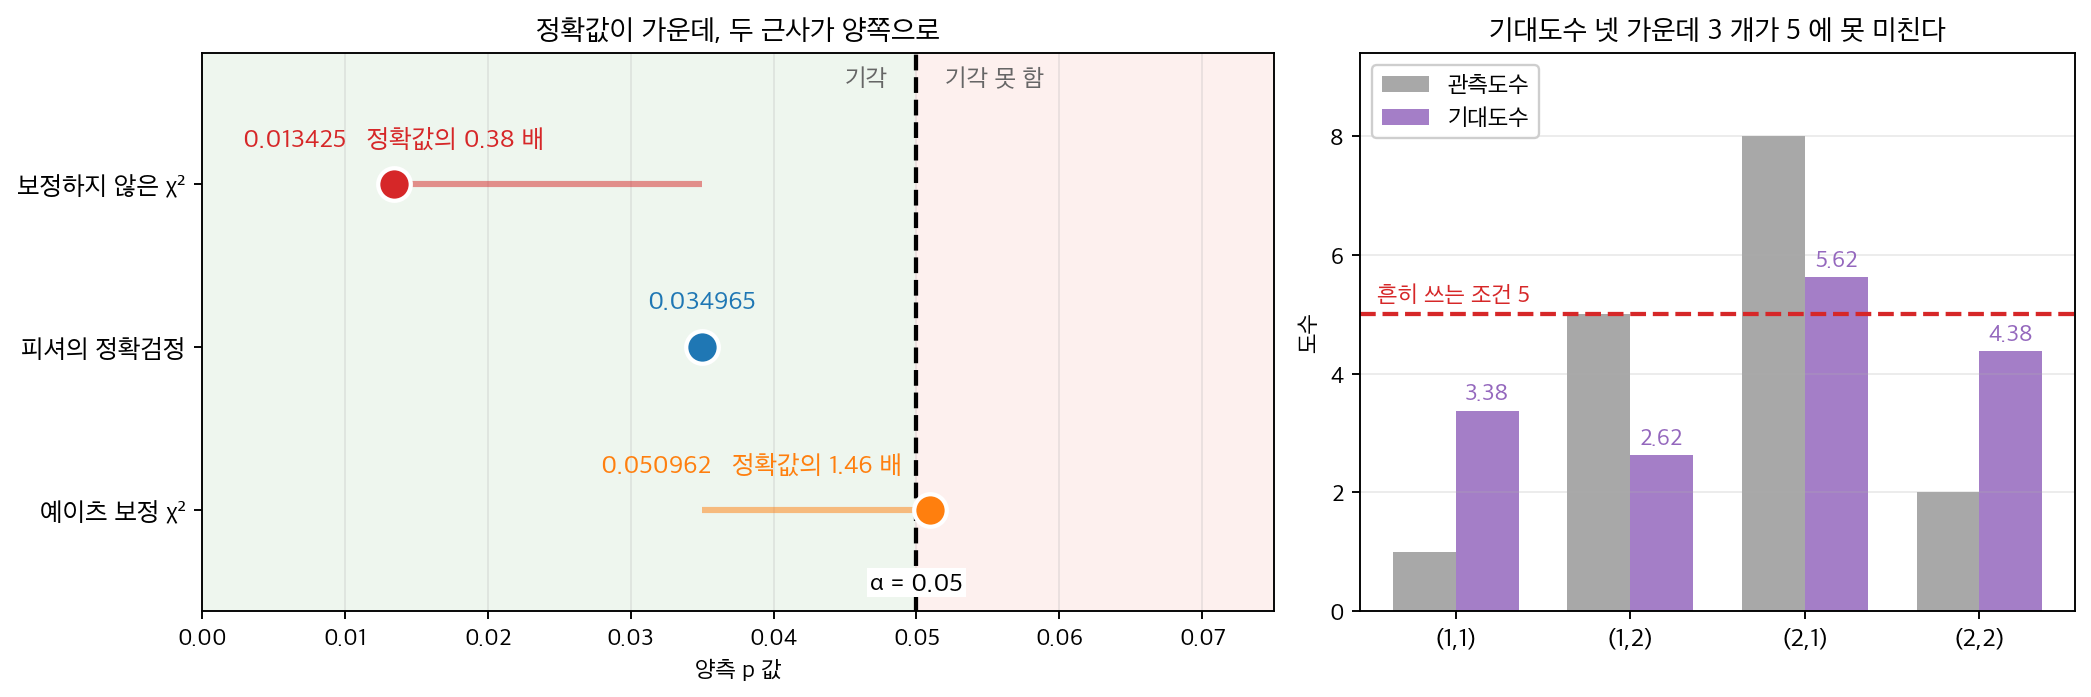
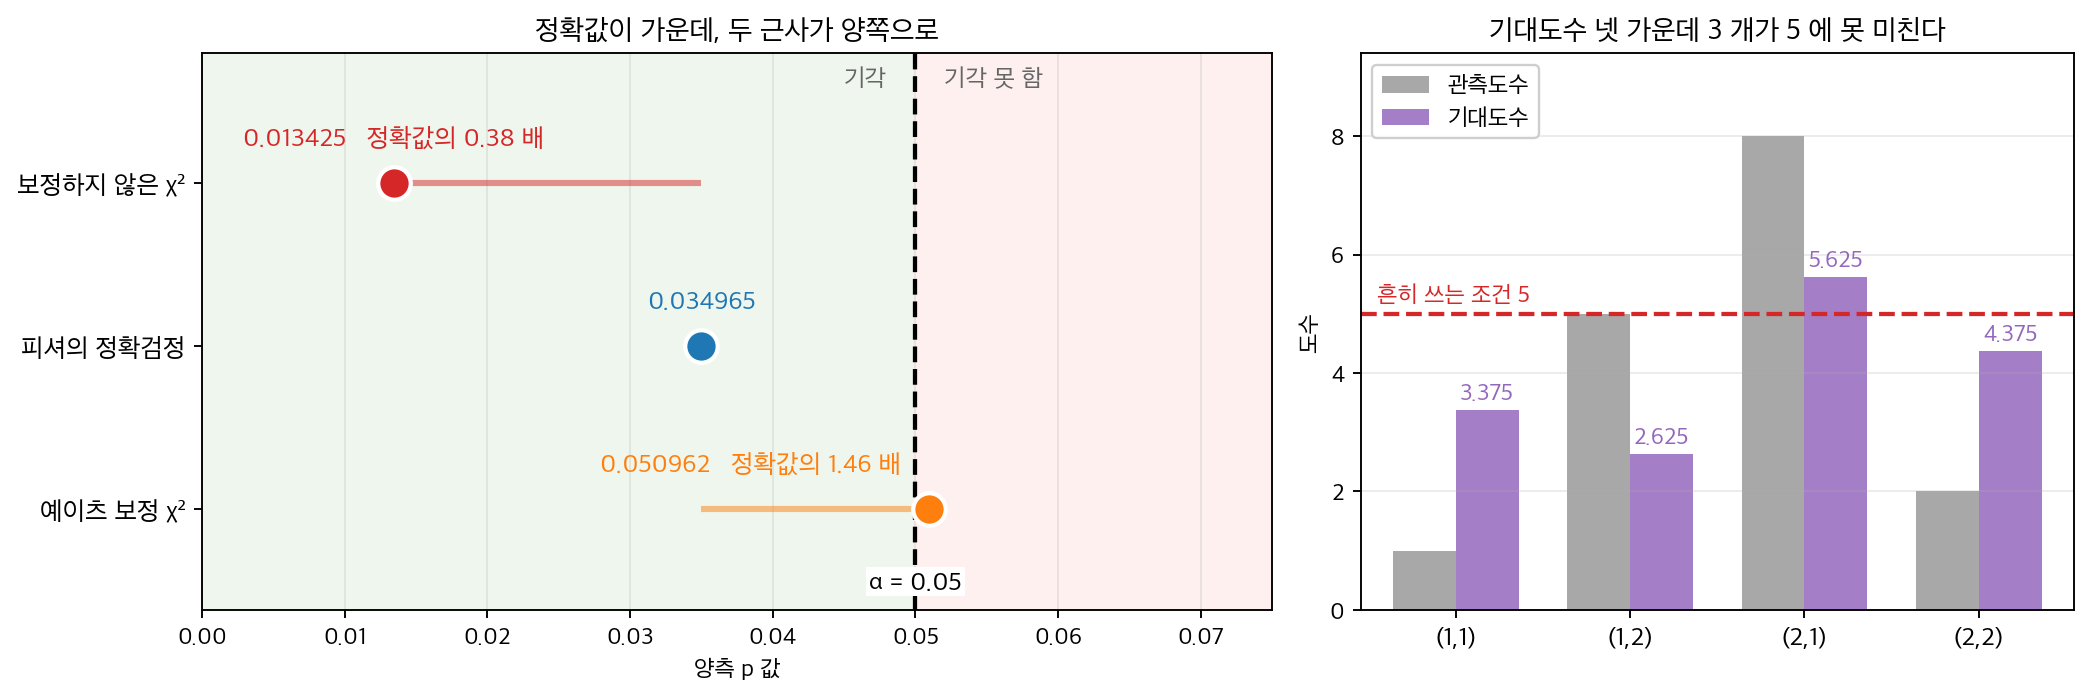
fix(ch11): 보고만 해 두었던 항목을 마무리한다
둘째 정독 패스가 고치지 않고 남긴 항목을 하나씩 판정해 끝냈다. 이미 닫힌 것과 보고가
틀린 것은 건드리지 않았고, 펜스를 고친 쪽은 실제로 돌린 출력을 붙여 verify_outputs 로
맞췄다. 그림을 다시 그린 것은 스크립트와 함께 담았다. 바깥 사실은 확인한 출처로만 고쳤다.

diff --git a/scripts/make_ch13_leadbox_figures_b.py b/scripts/make_ch13_leadbox_figures_b.py
@@ -234,7 +234,7 @@ ax1.set_xlabel("가장 작은 기대도수", fontsize=11)
 ax1.set_ylabel("실제 1 종 오류율", fontsize=11)
 ax1.set_ylim(0.030, 0.062)
 ax1.set_xlim(EM[0] - 0.3, EM[-1] + 0.3)
-ax1.set_title("자리가 길마다 다르다 — 합치면 가장 높고 조이면 늘 아래다",
+ax1.set_title("자리가 길마다 다르다 — 합치면 가장 높고 조이면 대개 아래다",
               fontsize=12.5)
 ax1.legend(fontsize=10.2, loc="lower right",
            bbox_to_anchor=(1.0, 0.16))
@@ -244,8 +244,8 @@ ax1.annotate("합치는 길은 다섯 자리 모두에서\n셋 가운데 가장 
              fontsize=10.8, color="tab:purple", fontweight="bold",
              ha="right", va="top",
              arrowprops=dict(arrowstyle="->", color="tab:purple", lw=1.8))
-ax1.annotate("정확검정은 다섯 자리 모두\n명목 아래에 있다",
-             xy=(EM[2], T1[2, 2] - 0.0004), xytext=(EM[2] + 0.15, 0.0335),
+ax1.annotate("정확검정은 다섯 자리 가운데\n넷이 명목 아래에 있다",
+             xy=(EM[2], T1[2, 2] - 0.0004), xytext=(EM[2] - 0.45, 0.0335),
              fontsize=10.8, color="tab:blue", fontweight="bold",
              ha="left", va="bottom",
              arrowprops=dict(arrowstyle="->", color="tab:blue", lw=1.8))
@@ -272,8 +272,8 @@ ax2.set_ylim(0, 10.2)
 ax2.set_title("더 잡는 만큼이 그 길의 벌이다", fontsize=12.5)
 ax2.legend(fontsize=10.5, loc="upper right")
 ax2.grid(axis="y", alpha=0.25)
-ax2.text(0.03, 0.975, "합치는 길의 벌이는 왼쪽에서 더 쓴 5% 와\n"
-         "함께 읽어야 한다 — 공짜가 아니다.\n"
+ax2.text(0.03, 0.975, "합치는 길의 벌이는 왼쪽에서 더 높았던\n"
+         "1 종 오류율과 함께 읽어야 한다 — 공짜가 아니다.\n"
          "자유도도 2 에서 1 로 줄어 묻는 물음이 바뀐다",
          transform=ax2.transAxes, ha="left", va="top", fontsize=10.8,
          color="0.25", fontweight="bold",

diff --git a/scripts/make_ch13_two_ways_off.py b/scripts/make_ch13_two_ways_off.py
@@ -78,7 +78,7 @@ ax2.axhline(5, color="tab:red", ls="--", lw=1.8)
 ax2.text(-0.45, 5.15, "흔히 쓰는 조건 5", ha="left", va="bottom", fontsize=10,
          color="tab:red")
 for xi, (o, e) in zip(x, zip(ob, ex)):
-    ax2.text(xi + w / 2, e + 0.12, f"{e:.2f}", ha="center", va="bottom",
+    ax2.text(xi + w / 2, e + 0.12, f"{e:.3f}", ha="center", va="bottom",
              fontsize=10, color="tab:purple", fontweight="bold")
 
 ax2.set_xticks(x, labs, fontsize=11)

diff --git a/docs/ch11/test/homogeneity.md b/docs/ch11/test/homogeneity.md
@@ -226,7 +226,7 @@ $$
     \end{array}
     $$
 
-    다. **별 2개와 별 1개 줄을 보라.** US 의 $0.1303$ 과 $0.0300$ 이 Mexico 에서는 $0.2805$ 와 $0.0976$ 으로 두 배에서 세 배가 된다. 통계량이 어디서 나올지가 이미 보인다.
+    다. **별 2개와 별 1개 줄을 보라.** US 의 $0.1303$ 과 $0.0300$ 이 Mexico 에서는 $0.2805$ 와 $0.0976$ 으로 두 배에서 세 배 남짓이 된다. 통계량이 어디서 나올지가 이미 보인다.
 
     자유도는 $(r-1)(c-1) = 4 \times 2 = 8$ 이다. 합동 분포를 추정하느라 $r-1 = 4$ 개의 모수를 썼고, 나라마다 $r-1=4$ 개의 자유로운 비율이 있어 모두 $3 \times 4 = 12$ 개였으므로 $12 - 4 = 8$ 이 남는다.
 
@@ -336,7 +336,7 @@ $$
     print(f"{'열 합':8s}" + "".join(f"{v:9.2f}" for v in contrib.sum(0))
           + f"{contrib.sum():9.2f}")
     print(f"\n최소 기대도수 {E.min():.2f}")
-    print(f"크래머 V = sqrt(chi2 / (n min(r-1,c-1))) "
+    print(f"크라메르 V = sqrt(chi2 / (n min(r-1,c-1))) "
           f"= sqrt({contrib.sum():.2f} / (3706 x 2)) = {np.sqrt(contrib.sum() / (N * 2)):.4f}")
     ```
 
@@ -353,14 +353,14 @@ $$
     열 합         74.45     1.87   136.62   212.94
 
     최소 기대도수 17.12
-    크래머 V = sqrt(chi2 / (n min(r-1,c-1))) = sqrt(212.94 / (3706 x 2)) = 0.1695
+    크라메르 V = sqrt(chi2 / (n min(r-1,c-1))) = sqrt(212.94 / (3706 x 2)) = 0.1695
     ```
 
     **두 줄이 전부다.** 별 2개 줄이 $97.80$, 별 1개 줄이 $65.22$ 로 둘을 합치면 $163.0$, 곧 전체 $212.94$ 의 $77\%$ 다. 나라로 보면 Mexico 가 $136.62$ ($64\%$), US 가 $74.45$ ($35\%$), Canada 는 $1.87$ ($0.9\%$) 다. **Canada 는 합동 분포에 거의 그대로 맞는다.** 가장 큰 칸 하나는 Mexico 의 별 2개로 $64.42$, 전체의 $30\%$ 다.
 
     최소 기대도수가 $17.12$ 라 모든 칸이 5 를 넘고, 타당성 조건이 넉넉하게 충족된다.
 
-    **$X^2$ 과 $V$ 가 서로 다른 말을 한다.** $X^2 = 212.94$ 는 "우연으로 보기 어렵다" 를 압도적으로 말하지만 크라메르 $V = 0.1695$ 는 **약한 연관**이다($V \le 0.1$ 약함, $0.3$ 중간, $0.5$ 이상 강함이라는 흔한 기준에서 약함과 중간 사이다). 까닭은 $X^2 = n V^2 \min(r-1,c-1)$ 이라서 $n = 3706$ 이 통계량을 끌어올리기 때문이다. 관측값이 3,500 개가 넘어 검정력이 아주 높다는 점을 함께 보아야 한다. **"분포가 같지 않다" 는 확실하지만 "많이 다르다" 는 아니다.**
+    **$X^2$ 과 $V$ 가 서로 다른 말을 한다.** $X^2 = 212.94$ 는 "우연으로 보기 어렵다" 를 압도적으로 말하지만 크라메르 $V = 0.1695$ 는 **약한 연관**이다(코언의 기준 $0.1$·$0.3$·$0.5$ 를 $\min(r-1,c-1) = 2$ 인 이 표에 맞추어 $\sqrt 2$ 로 나누면 작음 $0.07$, 중간 $0.21$, 큼 $0.35$ 이고, $0.1695$ 는 중간에 못 미친다). 까닭은 $X^2 = n V^2 \min(r-1,c-1)$ 이라서 $n = 3706$ 이 통계량을 끌어올리기 때문이다. 관측값이 3,500 개가 넘어 검정력이 아주 높다는 점을 함께 보아야 한다. **"분포가 같지 않다" 는 확실하지만 "많이 다르다" 는 아니다.**
 
 ### `chi2_contingency` 가 같은 값을 주는지
 
@@ -959,7 +959,7 @@ $$
     print(f"전체 chi2 = {contrib.sum():.4f}   가장 큰 칸의 몫 "
           f"{contrib.max() / contrib.sum():.3f}   범주 3 열의 몫 "
           f"{contrib.sum(0)[2] / contrib.sum():.3f}")
-    print(f"크래머 V = {np.sqrt(contrib.sum() / (n * 2)):.4f},   최소 기대도수 {E.min():.4f}")
+    print(f"크라메르 V = {np.sqrt(contrib.sum() / (n * 2)):.4f},   최소 기대도수 {E.min():.4f}")
     ```
 
     출력:
@@ -980,14 +980,14 @@ $$
 
     열별 기여 합    2.9863   1.2727   9.2857   0.6250
     전체 chi2 = 14.1697   가장 큰 칸의 몫 0.412   범주 3 열의 몫 0.655
-    크래머 V = 0.1537,   최소 기대도수 23.3333
+    크라메르 V = 0.1537,   최소 기대도수 23.3333
     ```
 
     **범주 3 한 열이 대부분이다.** 그 열의 기여 합이 $9.2857$ 로 전체 $14.1697$ 의 $65.5\%$ 이고, 그중 모집단 2 의 칸 하나가 $5.8333$ 으로 $41.2\%$ 다. 기대 $23.3$ 에 대해 35 가 관측되었다. 모집단 3 은 반대로 $15$ 로 내려앉아 $2.9762$ 를 보탠다. **범주 3 에서 모집단 2 와 3 이 서로 반대 방향으로 벌어진 것**이 기각의 이유다.
 
     잔차는 방향까지 알려 준다. 피어슨 잔차 $(O-E)/\sqrt E$ 가 모집단 2·범주 3 에서 $+2.4152$, 모집단 3·범주 3 에서 $-1.7252$ 다. 다만 **피어슨 잔차의 분모 $\sqrt{E_{ij}}$ 는 $O_{ij}-E_{ij}$ 의 표준편차를 과대평가한다.** 주변합이 고정되어 있어 실제 분산이 $E_{ij}$ 에 $(1-R_i/n)(1-C_j/n)$ 을 곱한 만큼으로 작기 때문이고, 그래서 피어슨 잔차는 체계적으로 작게 나온다. 그 보정을 넣은 **조정 잔차**는 각각 $+3.3783$ 과 $-2.4131$ 이 된다. 다만 칸이 열둘이므로 $\pm 1.96$ 을 그대로 대면 안 된다 — 본페로니 기준 $2.8653$ 으로 보면 **살아남는 것은 $+3.3783$ 하나**다(11.2절 [기각한 뒤: 칸별 잔차 분석](homogeneity_residuals.md)이 그 셈을 끝까지 따라간다). 보정 차이는 칸 하나만 보는 $\pm 1.96$ 기준에서 드러난다 — 피어슨 잔차만 보았다면 $-1.7252$ 를 "유의하지 않다" 고 넘겼을 칸이 조정 잔차로는 $-2.4131$ 로 그 기준을 넘는다.
 
-    **다만 효과크기는 작다.** 크라메르 $V = 0.1537$ 이다(출력의 「크래머 V」가 이 값이다). $X^2 = nV^2\min(r-1,c-1)$ 이므로 $n = 300$ 이 통계량을 끌어올린 몫이 크다. 최소 기대도수가 $23.33$ 으로 타당성 조건은 넉넉히 충족된다.
+    **다만 효과크기는 작다.** 크라메르 $V = 0.1537$ 이다. $X^2 = nV^2\min(r-1,c-1)$ 이므로 $n = 300$ 이 통계량을 끌어올린 몫이 크다. 최소 기대도수가 $23.33$ 으로 타당성 조건은 넉넉히 충족된다.
 
     **주요 출력은 이렇다.**
 

diff --git a/docs/ch11/distribution/degrees_of_freedom.md b/docs/ch11/distribution/degrees_of_freedom.md
@@ -290,11 +290,11 @@ $$
 
 교과서가 주는 규칙은 「모든 기대도수가 $5$ 이상」이다. 안전한 쪽으로 넉넉하게 잡힌 **충분조건**이지만 필요조건은 아니다. 앞 절 [피어슨 통계량은 어디서 오는가](distribution.md)의 상자가 칸 $200$ 개로 쪼개 칸마다 기대도수를 $1$ 로 만들어도 기각률이 $0.0504$ 임을 재어 놓았고, 아래 연습문제 8 은 기대도수 최솟값이 $0.5$ 인 자리에서도 수준이 $0.0524$ 로 멀쩡한 것을 본다.
 
-**깨뜨리는 것은 기대도수의 최솟값이 아니라 칸들 사이의 불균형이다.** 연습문제 8 에서 가장 나쁜 자리는 $p = (0.97, 0.01, 0.01, 0.01)$, $n = 100$ 의 $0.0658$ 인데, 최솟값은 $1$ 로 다른 경우와 같고 다른 것은 $97$ 대 $1$ 이라는 불균형뿐이다. 작은 칸이 몇 개뿐이고 나머지가 큰 칸이면, 작은 항의 이산성과 왜도가 **평균될 상대를 찾지 못한다.** 그래서 정리하면
+**깨뜨리는 것은 기대도수의 최솟값이 아니라 칸들 사이의 불균형이다.** 연습문제 8 에서 가장 나쁜 자리는 $p = (0.97, 0.01, 0.01, 0.01)$, $n = 100$ 의 $0.0658$ 인데, 최솟값은 $1$ 로 다른 경우와 같고 다른 것은 $97$ 대 $1$ 이라는 불균형뿐이다. 큰 칸 하나가 도수를 거의 다 가져가고 그 곁에 작은 칸 몇 개만 붙어 있으면, 작은 항의 이산성과 왜도가 **평균될 상대를 찾지 못한다.** 그래서 정리하면
 
 - 전체 표본크기 $n$ 이 클수록 좋다.
 - **기대도수가 고를수록** 좋다. 고르면 작아도 대체로 버틴다.
-- 큰 칸들 사이에 **드문 범주 하나**가 끼어 있으면 나쁘다. 그 칸을 합치거나 정확검정·순열로 가는 편이 낫다.
+- 큰 칸 곁에 **드문 범주**가 붙어 기대도수가 크게 불균형하면 나쁘다. 그 칸을 합치거나 정확검정·순열로 가는 편이 낫다.
 
 코크런$(1954)$ 의 더 정교한 제안과 그 대안들은 아래 연습문제 8 과 11.3절 [기대 칸 도수와 타당성 조건](../practice/validity_conditions.md)에 있다.
 
@@ -348,7 +348,7 @@ $$
 
 $\S 1$ 이 「기대도수를 주변합으로 추정했다」고만 말하고 11.2절 [독립성 검정](../test/independence.md)이 주변확률의 곱으로 놓은 그 식이 여기서는 **유도된다.** 포아송 가능도의 점수방정식이
 행 합과 열 합을 맞추라고만 말하고, 그 조건을 만족하는 곱꼴이 저것 하나뿐이다. 반복 적합이
-필요 없는 까닭이고, 피어슨이 $1900$ 년에 계산기 없이 이 검정을 쓸 수 있었던 까닭이기도 하다.
+필요 없는 까닭이고, 계산기 없던 시절에도 분할표에 이 검정을 쓸 수 있었던 까닭이기도 하다.
 
 ### 두 통계량이 삼위일체의 두 모서리다
 
@@ -965,7 +965,7 @@ $\sqrt{E_i}$ 여야 했던 까닭도 여기서 다시 읽힌다 — 점수통계
     | 평균 이동 | **2**(또는 4) |
     | 꼬리 두께 | **4** |
 
-    **요약하면 "이탈을 담아낼 만큼만, 그러나 그 이상은 말라"**다. 관례적으로 $k$를 $n^{2/5}$ 정도로 잡는 규칙(만의 규칙)이 있는데, $n=200$이면 $k\approx8$이다. 위 표에서 $k=8$은 어느 대립가설에서도 최선은 아니지만 **둘 다에서 나쁘지 않다.** 목표 대립가설을 모를 때의 타협으로 합리적이다.
+    **요약하면 "이탈을 담아낼 만큼만, 그러나 그 이상은 말라"**다. 만–왈드$(1942)$ 는 $k$ 가 $n^{2/5}$ 의 차수로 늘어나야 한다고 보였고, 실무에서는 상수를 떼고 $k \approx n^{2/5}$ 로 줄여 쓰는 일이 흔한데, $n=200$이면 $k\approx8$이다(원래 식 $k = 4\{2(n-1)^2/z_{1-\alpha}^2\}^{1/5}$ 은 $\alpha = 0.05$ 에서 $31$ 남짓으로 훨씬 크다). 위 표에서 $k=8$은 어느 대립가설에서도 최선은 아니지만 **둘 다에서 나쁘지 않다.** 목표 대립가설을 모를 때의 타협으로 합리적이다.
 
     **더 근본적인 교훈.** 카이제곱 적합도 검정은 **모든 방향의 이탈을 조금씩** 본다. 특정 방향(위치, 산포, 꼬리)을 알고 있다면 그 방향에 맞춘 검정이 훨씬 강력하다.
 

diff --git a/docs/ch11/test/cochran_q.md b/docs/ch11/test/cochran_q.md
@@ -14,7 +14,7 @@
 
 <figure markdown>
   ![두 칸짜리 그림. 왼쪽은 세 과제를 모두 성공하거나 모두 실패한 사람을 계속 더할 때 표에 적힌 n 은 12 에서 212 까지 오르는데 검정이 실제로 쓰는 n 은 아홉에 그대로인 막대그림이다. 오른쪽은 그 다섯 자리에서 검정통계량이 평평한 수평선으로 남는 것을 보인다](./img/written_n_versus_used_n.png){ width="900" }
-  <figcaption markdown>쪽의 $12$ 행에 **모두 성공한 사람과 모두 실패한 사람만** 계속 더해 보았다. 표에 적히는 $n$ 은 $12$ 에서 $212$ 까지 열일곱 배가 되는데 검정이 실제로 쓰는 사람은 **아홉에 그대로**이고, $Q = 8.6667$ 도 $p = 0.0131$ 도 한 자리가 움직이지 않는다. 적힌 표본크기가 검정의 표본크기가 아니라는 말이 이것이고, 그래서 **사람을 더 모아도 그 사람들이 그런 사람이면 아무것도 달라지지 않는다.** 아홉 명의 배치 $3^9 = 19{,}683$ 가지를 다 세면 정확한 $p$ 는 $0.0159$ 다.</figcaption>
+  <figcaption markdown>쪽의 $12$ 행에 **모두 성공한 사람과 모두 실패한 사람만** 계속 더해 보았다. 표에 적히는 $n$ 은 $12$ 에서 $212$ 까지 열일곱 배 남짓이 되는데 검정이 실제로 쓰는 사람은 **아홉에 그대로**이고, $Q = 8.6667$ 도 $p = 0.0131$ 도 한 자리가 움직이지 않는다. 적힌 표본크기가 검정의 표본크기가 아니라는 말이 이것이고, 그래서 **사람을 더 모아도 그 사람들이 그런 사람이면 아무것도 달라지지 않는다.** 아홉 명의 배치 $3^9 = 19{,}683$ 가지를 다 세면 정확한 $p$ 는 $0.0159$ 다.</figcaption>
 </figure>
 
 그 사람들이 왜 아무 말도 하지 않는지, 그래서 **실제 표본크기는 몇인지**가 이 쪽의 물음이다. 통계량을 세우고 맥니마와의 관계를 밝힌 뒤 그 수를 센다. 아래 상자가 「근사를 언제 믿어도 되는가」를 평생 따진 사람을 따라간다 — 그 지침이 보는 것도 적힌 $n$ 이지 쓰이는 $n$ 이 아니다.
@@ -378,7 +378,7 @@ $1934$ 년, 대공황 한가운데서 **로담스테드 실험농장**의 조수
   <figcaption markdown>반복 $60{,}000$ 회. 초록 띠는 $0.04$–$0.06$ 이고 검은 파선이 약속한 $0.05$ 다.</figcaption>
 </figure>
 
-먼저 좋은 소식. 실제 기각률이 $0.05$ 를 **위로 넘는 일이 없다.** 작은 $n$ 에서 $Q$ 는
+먼저 좋은 소식. 그림의 자리들에서 실제 기각률이 $0.05$ 를 **눈에 띄게 위로 넘는 일이 없다**(연습문제 10 의 $0.0557$ 처럼 $0.05$ 를 조금 웃도는 값은 반복 $3{,}000$ 회의 모의실험 오차 안이다). 작은 $n$ 에서 $Q$ 는
 보수적이지 거짓 양성을 흘리지 않는다.
 
 나쁜 소식은 얼마나 보수적인가다. $k = 3$, $p = 0.1$ 에서 피험자가 넷이면 실제 기각률이

diff --git a/docs/ch11/test/gof.md b/docs/ch11/test/gof.md
@@ -192,10 +192,10 @@ $$
 $s$ (자릿수로 센 표준편차)를 바꿔 가며 재면 경계가 또렷하다. $s = 1$ 이면 벤포드와의 거리가
 $0.0015$ 로 사실상 똑같고, $s = 0.5$ 여도 $0.005$ 다. **반 자릿수만 퍼져도 맞는다.**
 그런데 $s = 0.3$ 이면 $0.103$ 으로 눈에 띄게 어긋나고, $s = 0.2$ 면 $0.277$ 이다.
-$100$ 에서 $999$ 사이의 균등분포는 첫 자리가 모두 $0.111$ 로 평평해 거리가 $0.270$ 이다.
+$100$ 에서 $999$ 사이의 균등분포는 첫 자리가 모두 $0.111$ 로 평평해 거리가 $0.268$ 이다.
 
 이것이 실무에서 문제를 일으킨다. $s = 0.3$ 짜리 **멀쩡한** 자료 $1{,}000$ 개로 위와 같은
-적합도검정을 하면 $X^2 = 50.2$, $\text{df} = 8$, $p = 3.7 \times 10^{-8}$ 이다.
+적합도검정을 하면 $X^2$ 이 $50$ 안팎으로 나오고($s = 0.3$ 의 첫자리 분포를 그대로 넣어 셈하면 $49.95$), $\text{df} = 8$ 에서 $p$ 는 $10^{-7}$ 자리다.
 보란 듯이 기각된다. 꾸며낸 것이 하나도 없는데 그렇다. 개표소별 득표수, 한 회사 직원들의
 월급, 비슷한 크기의 거래가 모인 장부 — 모두 좁게 모여 있어 이 자리에 놓인다.
 
@@ -2049,7 +2049,7 @@ p 값을 계산할 때 `stats.chi2(df).cdf(statistic)`이 아니라 `stats.chi2(
 
     **여섯 통계량이 2.54~2.67로 거의 같다.** $p$ 값도 0.264~0.281이다. **$n=200$이고 기대도수가 넉넉하면 어느 것을 써도 결론이 같다.**
 
-    **차이는 소표본에서 드러난다.** 11.1절 [피어슨 통계량은 어디서 오는가](../distribution/distribution.md)가 재어 보였듯 균등 5범주, $n=20$이면 네이만 수정($\lambda=-2$, 분모가 $O_i$인 그것)이 수준을 0.28 가까이 부풀린다.
+    **차이는 소표본에서 드러난다.** 11.1절 [피어슨 통계량은 어디서 오는가](../distribution/distribution.md)가 재어 보였듯 균등 5범주, $n=20$이면 네이만 수정($\lambda=-2$, 분모가 $O_i$인 그것)이 수준을 명목 0.05 에서 0.276 까지 부풀린다.
 
     **문자열과 $\lambda$ 값의 대응에 주의한다.** `scipy`에서 `"neyman"`은 $\lambda=-2$, `"mod-log-likelihood"`는 $\lambda=-1$이다. 이름만 보고 짐작하면 틀리기 쉽다.
 

diff --git a/docs/ch11/test/independence_titanic.md b/docs/ch11/test/independence_titanic.md
@@ -702,7 +702,7 @@ $$
 
     이다. $\varphi$ 의 **제곱**에 반비례하므로 효과가 절반이면 표본은 네 배 필요하다.
 
-    타이타닉은 $\varphi^2 = X^2/n = 263.05/891 = 0.29523$ 이므로($\varphi = 0.5434$, 보기 6) $n \ge 3.8415/0.29523 = 13.01$ 이고, **열네 명만 있어도 유의해진다.** 아래 코드는 $\varphi = 0.5430$ 으로 넣어 $13.0$ 을 얻는데 결론은 같다. 아래 표의 $n = 20$ 에서 이미 $p = 0.0122$ 인 것이 그 때문이다.
+    타이타닉은 $\varphi^2 = X^2/n = 263.05/891 = 0.29523$ 이므로($\varphi = 0.5434$, 보기 6) $n \ge 3.8415/0.29523 = 13.01$ 이고, **열네 명만 있어도 유의해진다.** 아래 표의 $n = 20$ 에서 이미 $p = 0.0122$ 인 것이 그 때문이다.
 
     반대쪽 끝을 본다. 생존율 $40\%$ 와 $38\%$ 를 집단 크기가 같게 놓으면 칸 비율이 $0.20,\ 0.30,\ 0.19,\ 0.31$ 이므로
 
@@ -765,7 +765,7 @@ $$
 
     crit = chi2_dist.ppf(0.95, 1)
     print(f"chi2_0.05(1) = {crit:.4f}")
-    for phi, label in [(0.5430, "타이타닉"), (0.30, "중간"),
+    for phi, label in [(0.5434, "타이타닉"), (0.30, "중간"),
                        (0.10, "약함"), (0.0205, "40% 대 38%")]:
         print(f"  phi = {phi:.4f} ({label:10s})  n >= {crit / phi ** 2:9.1f}")
 
@@ -782,7 +782,7 @@ $$
 
     ```
     chi2_0.05(1) = 3.8415
-      phi = 0.5430 (타이타닉      )  n >=      13.0
+      phi = 0.5434 (타이타닉      )  n >=      13.0
       phi = 0.3000 (중간        )  n >=      42.7
       phi = 0.1000 (약함        )  n >=     384.1
       phi = 0.0205 (40% 대 38% )  n >=    9140.9
@@ -1287,7 +1287,7 @@ $\varphi=\sqrt{X^2/n}$을 $2\times2$ 표에서 **대수적으로 증명**하라.
     | $X=1$ | $c$ | $d$ | $c+d$ |
     | 합 | $a+c$ | $b+d$ | $n$ |
 
-    라 두자.
+    라 두자. 어떤 $2\times2$ 표에나 통하는 증명이라 칸 이름이 보기 6·7 과 다르다 — 거기서는 $a$ 가 여성 생존이었다.
 
     **1단계 — 파이 계수의 닫힌 꼴.** $X,Y$가 0/1이므로
 
